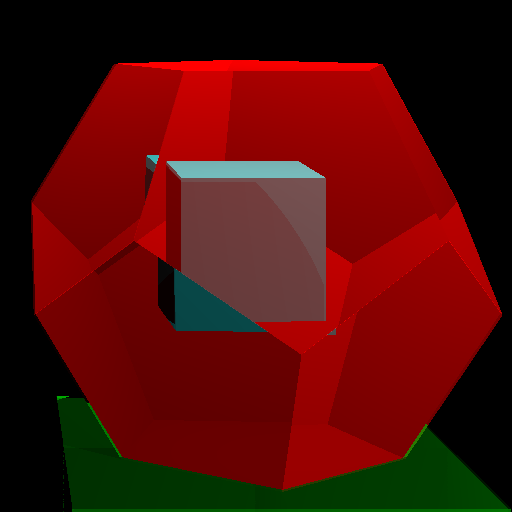
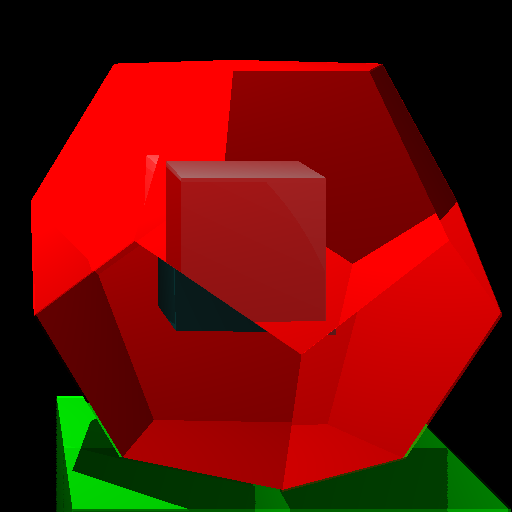
Commit before changing all

diff --git a/Source/main.cpp b/Source/main.cpp
@@ -62,7 +62,7 @@ render(int size) {
     }
     std::vector<Light> lights = std::vector<Light>();
     lights.push_back(Light(Vec(size * 3, 0, -size * 3), 40 * size * size));
-    lights.push_back(Light(Vec(size / 3, -size * 1.1, 0), 10 * size * size));
+    lights.push_back(Light(Vec(-size / 3, -size * 1.1, 0), 20 * size * size));
     
     std::vector<Object*> scene = std::vector<Object*>();
     std::vector<Object*> sphere = std::vector<Object*>();
@@ -74,7 +74,7 @@ render(int size) {
     Vec d_center(size / 3, size / 3, 0);
     Vec d_normal(0, 1, 0);
     float d_size = size / 4.5;
-    Dodekaedr d(d_center, d_normal, d_size, Color(1, 0, 0, 0.6), 1.03);
+    Dodekaedr d(d_center, d_normal, d_size, Color(1, 0, 0, 0.9), 1.03);
    
     float a = d_size;
     float b = a / sqrt(2 - 2 * cos(2 * M_PI / 5));
@@ -133,10 +133,11 @@ render(int size) {
                 
                 Ray inside_ray = Ray(intersect_sphere, reflect_vec(ray.dir, hit.normal, hit.reflect));
                 Collision scene_hit = find_hit(&scene, inside_ray);
+                float pogl = exp((-scene_hit.dist / size) * 2);
                 if (scene_hit.hit) {
                     Vec intersect = intersect_sphere + (ray.dir * scene_hit.dist);
                     float add = find_light(&scene, &lights, intersect, scene_hit);
-                    buffer[x + y * size] = buffer[x + y * size] + scene_hit.color * (base_scene_light * add);
+                    buffer[x + y * size] = buffer[x + y * size] + scene_hit.color * (base_scene_light * add * pogl);
                     
                 } else {
                     inside_ray.pos = inside_ray.pos + inside_ray.dir * EPS;
@@ -144,7 +145,7 @@ render(int size) {
                     if (hit.hit) {
                         intersect_sphere = inside_ray.pos + (inside_ray.dir * hit.dist);
                         d_add = find_light(&empty, &lights, intersect_sphere, hit);
-                        buffer[x + y * size] = buffer[x + y * size] + hit.color * (base_sphere_light * d_add);
+                        buffer[x + y * size] = buffer[x + y * size] + hit.color * (base_sphere_light * d_add * pogl);
                     }
                 }
             }
